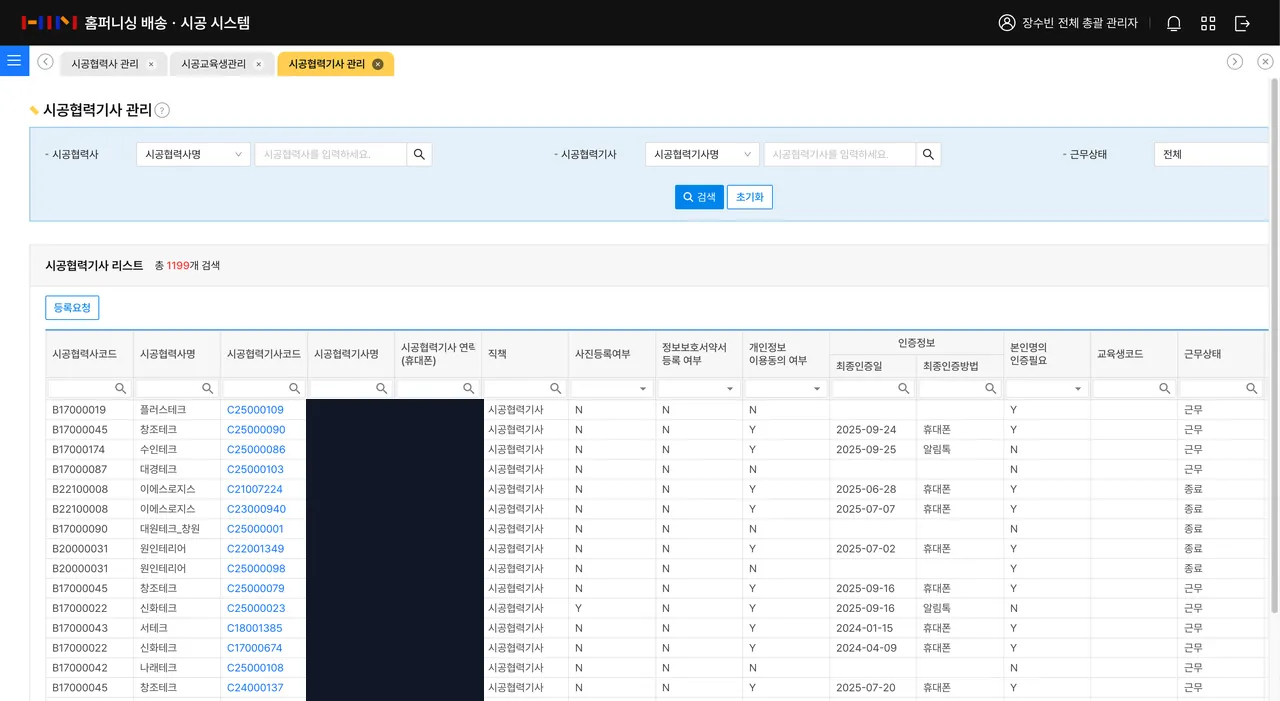
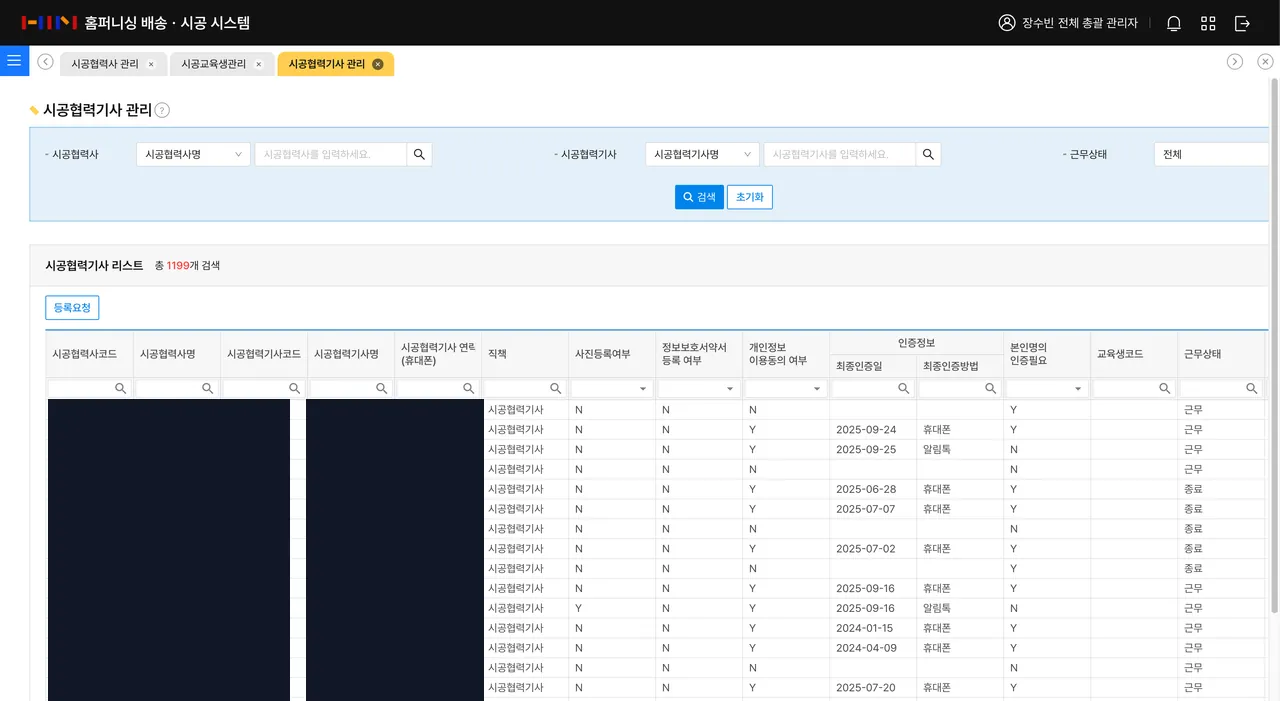
협력사 명단과 상품 마스터를 스크린샷에서 가림
가림 기준이 개인정보 하나였다. 협력기사 화면은 기사 성명·연락처를 덮으면서
정작 그 옆의 거래처(협력사) 법인명은 그대로 뒀고, MDS 상품 마스터는 규칙
자체가 없었다. 남의 개인정보를 지우는 기준으로는 회사 자산이 걸러지지 않는다 —
기준이 둘이라는 걸 파일 머리말에 적어 뒀다.

제거가 아니라 값만 덮는다. 이 화면들이 이력서에서 하는 일은 "이런 시스템을
만들었다"를 보이는 것이고, 그건 그리드·메뉴·필드 구성으로 충분하다. 값이
사라져도 화면은 그대로 읽힌다. 헤더를 남기는 기존 원칙도 그대로 따랐다.

- homefurnishing-install-1 — 시공협력사코드·시공협력사명·시공협력기사코드.
  거래처 명단은 영업정보라 공개 이력서에 실을 것이 아니다. 1,199건 목록의
  형태와 인증정보 컬럼 구성은 남는다.
- mds-2 — 상품코드·상품명. 상품명에 공개 판매 라인(듀스페이스)과 내부 표기
  (DMS_*, MTN_*, [미쓰]*)가 섞여 있어 항목별로 가려낼 수가 없고, 코드 체계는
  어느 쪽이든 내부 것이라 두 컬럼을 통째로 덮었다.

좌표는 이미지에서 글자 위치를 검출해 잡고 사본에 적용해 확인한 뒤 넣었다.
임포터를 돌려 실제로 반영했다 — 캐시가 온전해 오프라인으로 돌고, 규칙이 바뀐
2장만 새로 썼다. 나머지 15장은 바이트가 같다.

규칙만 넣고 임포터를 안 돌렸을 때 redactions.test.ts가 세 건을 정확히 잡았다.
커밋된 이미지의 픽셀을 열어 재는 검사라, 좌표 선언과 실제 파일이 어긋나면
여기서 멈춘다. 규칙이 늘어 유닛 테스트는 121개에서 126개가 됐다.

규모 수치("총 1199개", "1-50 of 2025")와 본인 실명·권한 표기는 남겼다.
값이 아니라 맥락이고, 어느 정도 규모의 시스템이었는지가 이력의 근거이기도 하다.

Changed region(s): [[0.0312, 0.5692, 0.25, 1.0]]

diff --git a/scripts/notion/redactions.ts b/scripts/notion/redactions.ts
@@ -2,8 +2,13 @@
  * 스크린샷에서 가릴 영역.
  *
  * Notion 원본에는 사내 시스템 화면이 그대로 담겨 있다. 이력서는 공개 사이트라
- * 개인정보(성명·연락처)와 사번은 지우고 내보낸다. 지우는 대신 검은 막대를
- * 덮는다 — 무엇을 가렸는지 컬럼 제목으로 알 수 있어야 화면이 이해된다.
+ * 두 종류를 지우고 내보낸다 — 개인정보(성명·연락처·사번)와, 회사 정보에
+ * 해당하는 값(거래처명·상품 마스터). 앞의 것은 남의 개인정보라서, 뒤의 것은
+ * 내 것이 아닌 회사 자산이라서다. 기준이 다르니 한쪽만 보고 좌표를 잡으면
+ * 다른 쪽이 그대로 나간다 — 실제로 협력기사 화면이 그랬다.
+ *
+ * 지우는 대신 검은 막대를 덮는다 — 무엇을 가렸는지 컬럼 제목으로 알 수 있어야
+ * 화면이 이해된다. 값만 덮고 헤더는 남기는 이유다.
  *
  * 좌표는 **리사이즈를 마친 뒤**(가로 1280px) 기준 픽셀이다. Notion에서 원본
  * 스크린샷을 갈아 끼우면 좌표가 어긋나 엉뚱한 곳을 가리게 되므로, 임포터가
@@ -27,11 +32,20 @@ export type Redaction = {
 };
 
 export const redactions: Record<string, Redaction> = {
-  // 시공협력기사 관리 화면 — 협력기사 실명과 휴대전화번호가 마스킹 없이 보인다
+  // 시공협력기사 관리 화면 — 협력기사 실명과 휴대전화번호가 마스킹 없이 보인다.
+  // 거래처(협력사) 법인명도 함께 덮는다. 개인정보만 보고 좌표를 잡았을 때
+  // 남아 있던 값인데, 거래처 명단은 회사 영업정보라 공개 이력서에 실을 것이 아니다.
   'homefurnishing-install-1.webp': {
     width: 1280,
     height: 701,
     areas: [
+      {
+        left: 48,
+        top: 399,
+        width: 242,
+        height: 302,
+        covers: '시공협력사코드·시공협력사명·시공협력기사코드 컬럼의 값',
+      },
       {
         left: 306,
         top: 399,
@@ -62,6 +76,31 @@ export const redactions: Record<string, Redaction> = {
         width: 165,
         height: 280,
         covers: '주소지 컬럼의 지번 주소',
+      },
+    ],
+  },
+
+  // MDS 상품 마스터 — 상품코드와 상품명이 실데이터로 50건 보인다(전체 2,025건).
+  // 상품명에는 공개 판매 라인(듀스페이스 등)과 내부 표기(DMS_*, MTN_*, [미쓰]*)가
+  // 섞여 있어 항목별로 가려내기 어렵다. 코드 체계는 어느 쪽이든 내부 것이라
+  // 두 컬럼을 통째로 덮는다. 그리드·메뉴·필드 구성은 남아 화면은 그대로 읽힌다.
+  'mds-2.webp': {
+    width: 1280,
+    height: 637,
+    areas: [
+      {
+        left: 172,
+        top: 170,
+        width: 56,
+        height: 432,
+        covers: '상품코드 컬럼의 값',
+      },
+      {
+        left: 290,
+        top: 170,
+        width: 132,
+        height: 432,
+        covers: '상품명 컬럼의 값',
       },
     ],
   },
